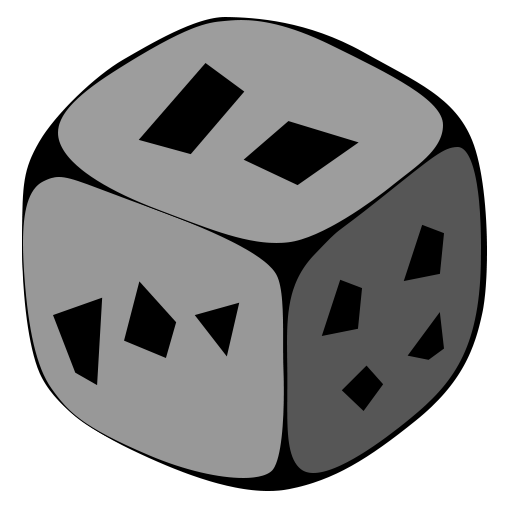
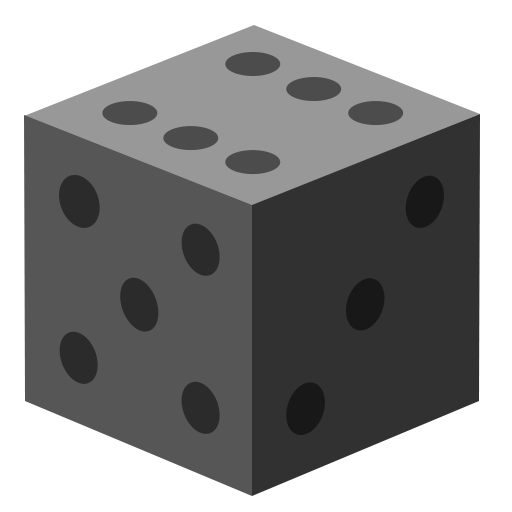
Tune dice size, placement, and press tint behavior.
Enlarge the dice control, lower it on screen, keep player color tint when pressed, and update the dice asset and glow blur.

diff --git a/src/GameScene.js b/src/GameScene.js
@@ -112,8 +112,8 @@ export default class GameScene extends Phaser.Scene {
         const boardTop = headerH + padding;
 
         return {
-            headerY: 36,
-            diceY: h - 44,
+            headerY: 16,
+            diceY: h - 110,
             boardLeft,
             boardTop,
             cellSize,
@@ -268,7 +268,7 @@ export default class GameScene extends Phaser.Scene {
         const w = this.scale.width;
         const diceY = this.layout.diceY;
 
-        this.diceButtonSize = Math.min(w * 0.18, 100);
+        this.diceButtonSize = Math.min(w * 0.216, 120);
         this.diceGlow = this.add.circle(
             w / 2,
             diceY,
@@ -281,7 +281,7 @@ export default class GameScene extends Phaser.Scene {
             .setVisible(false);
 
         this.diceGlow.enableFilters();
-        this.diceGlowBlur = this.diceGlow.filters.external.addBlur(0, 10, 10, 1);
+        this.diceGlowBlur = this.diceGlow.filters.external.addBlur(1, 5, 5, 1);
 
         this.rollButton = this.add.image(w / 2, diceY, "dice")
             .setDisplaySize(this.diceButtonSize, this.diceButtonSize)
@@ -386,7 +386,6 @@ export default class GameScene extends Phaser.Scene {
         };
         const tintByState = {
             ready: null,
-            pressed: 0xffffff,
             waiting: 0x666666
         };
         const alphaByState = {
@@ -405,7 +404,12 @@ export default class GameScene extends Phaser.Scene {
 
         const scale = scaleByState[state] ?? 1;
         this.rollButton.setDisplaySize(size * scale, size * scale);
-        this.rollButton.setTint(tintByState[state] ?? 0xffffff);
+
+        if (state === "pressed") {
+            this.updateDicePlayerStyle();
+        } else {
+            this.rollButton.setTint(tintByState[state] ?? 0xffffff);
+        }
 
         this.rollButton.setAlpha(alphaByState[state] ?? 1);
         this.diceText?.setAlpha(alphaByState[state] ?? 1);
